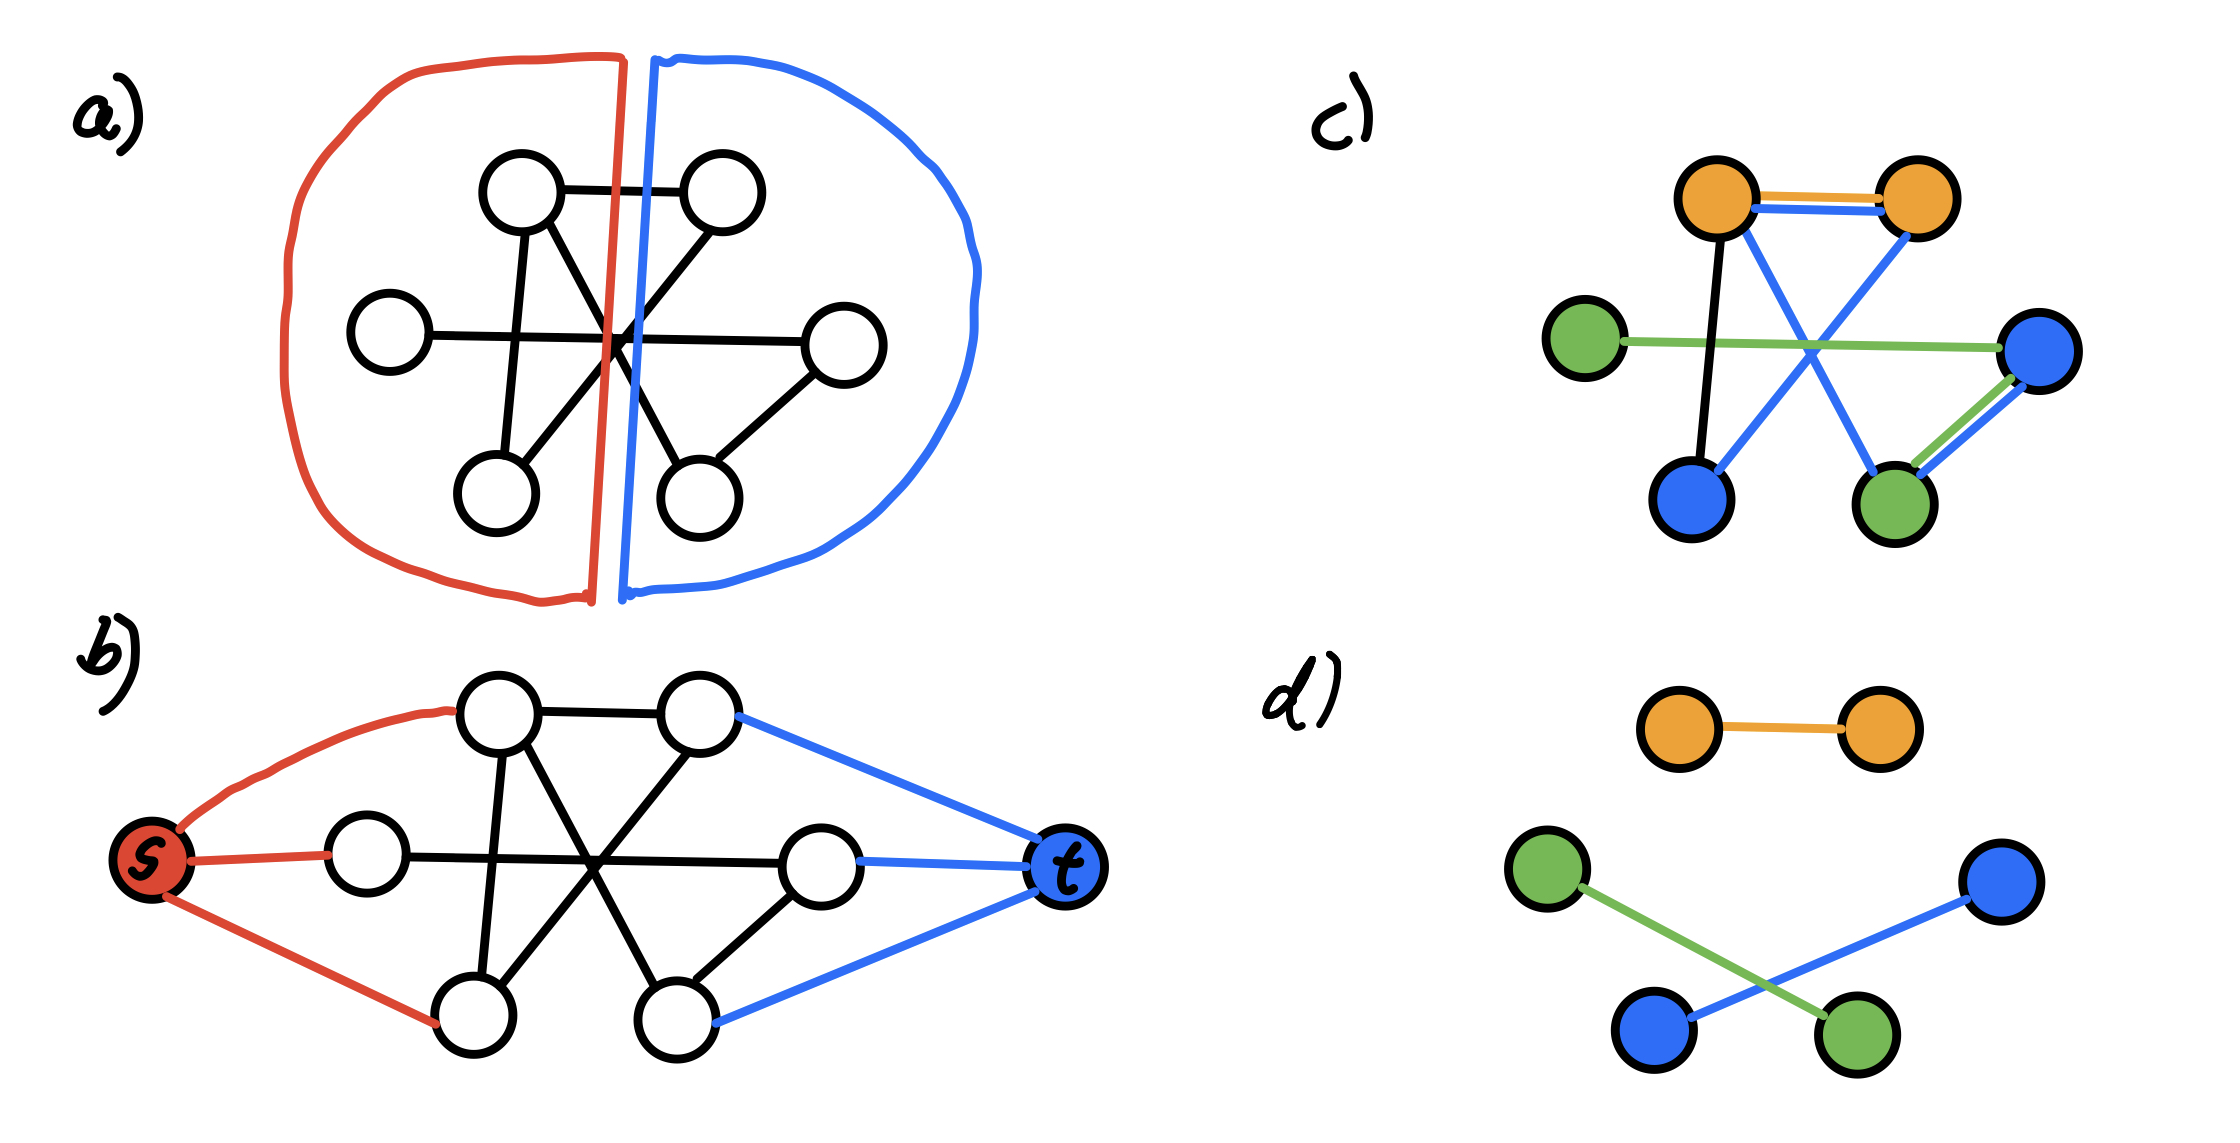
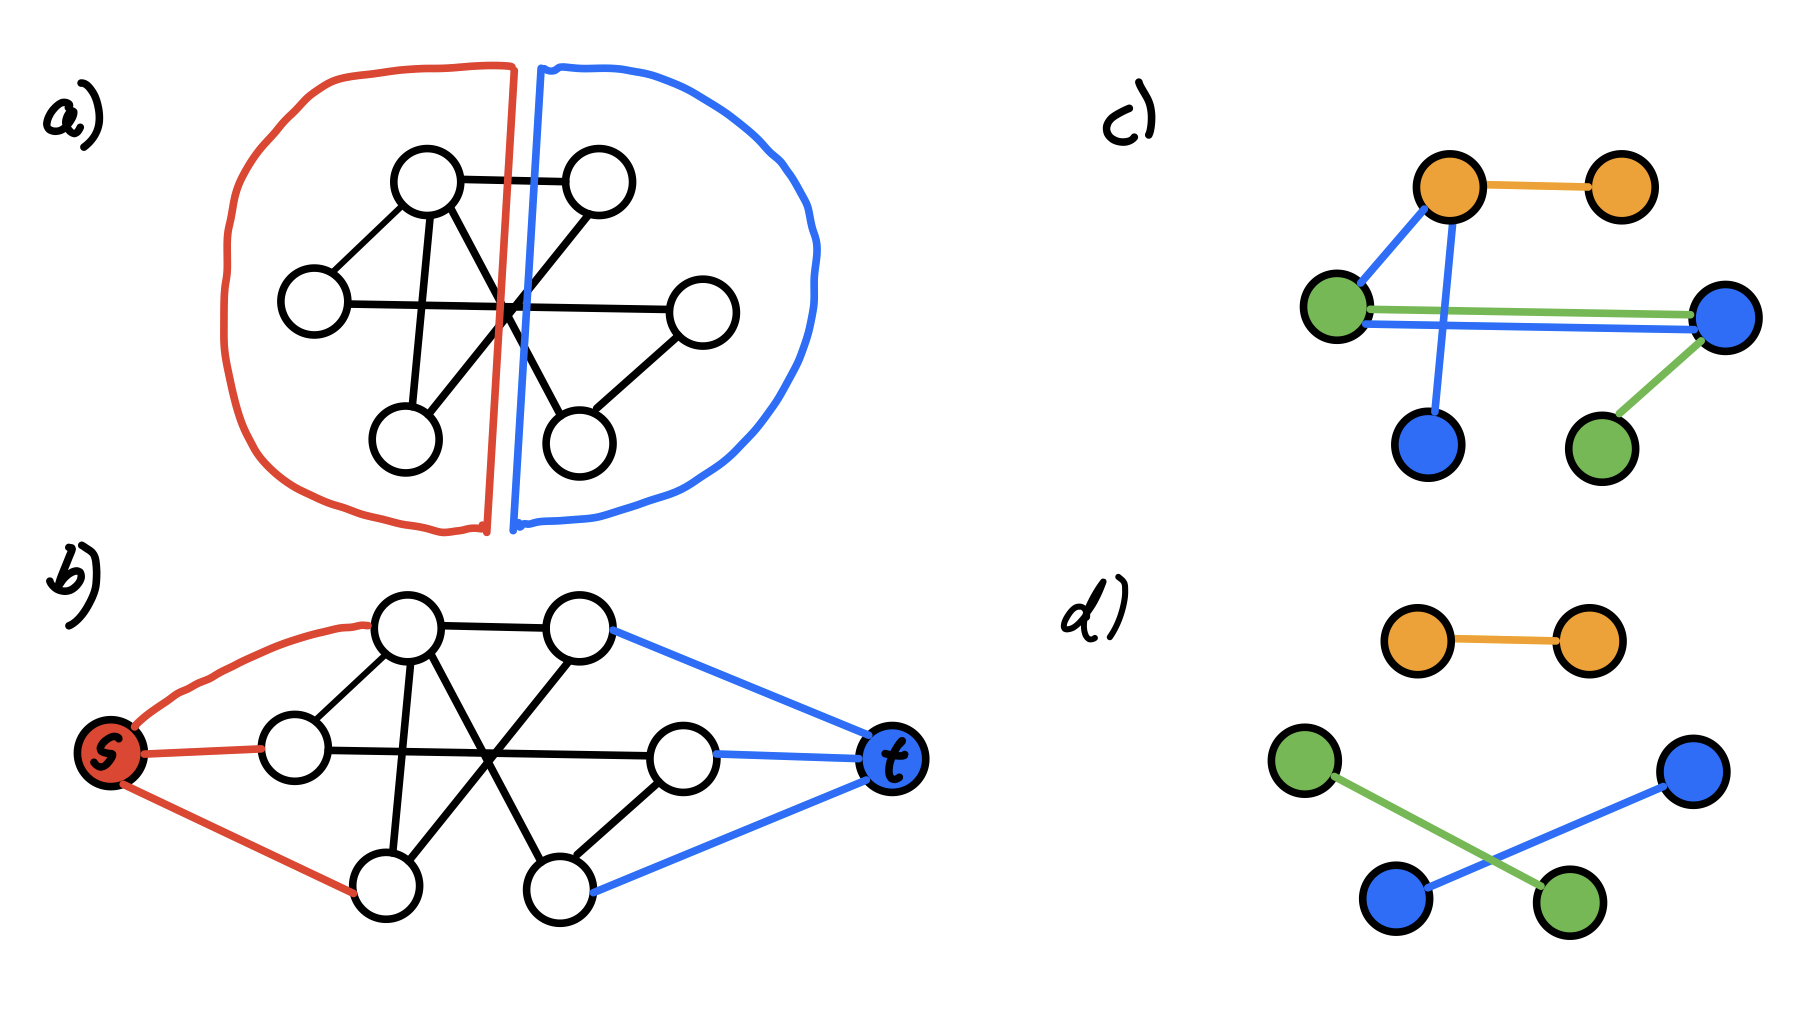
Small Bug Fixes
There was a mistake in a figure in cut matching, and the plink operation was not clear in dynamic trees. Both are improved.

diff --git a/agao21_script/lecture_DynamicTrees.tex b/agao21_script/lecture_DynamicTrees.tex
@@ -85,7 +85,7 @@ To implement the operation $\textsc{FindMin}(v)$ efficiently, we can use binary 
     \caption{For $\textsc{Cut}(u,v)$, we insert a vertex $d_0$ as a leaf of either $u$ or $v$ to formally split $(u,v)$ into $(u,d_0)$ and $(d_0,v)$ (this is shown on the left). While this preserves that Search-Property, it will violate the Heap-Order. Thus, we need to use tree rotations (shown on the left) to push $d_0$ to the top of the tree $\mathcal{P}$ (the arrow between the tree rotations should point in both ways).}
 \end{figure}
 
-Implementing $\textsc{Link}(u,v)$ can be done by reversing this process, i.e. inserting a vertex $d_{\infty}$ with $ranNum(d_{\infty}) = n^{100}$ where we set $left_{\mathcal{P}}(d_{\infty}) =  \textsc{FindRoot}(u)$ and $right_{\mathcal{P}}(d_{\infty}) =  \textsc{FindRoot}(v)$ (and adapt the parent pointers). Using rotations to enforce Heap-Order, we have $d_{\infty}$ as a leaf and can just remove it from the tree (which can be seen as un-splitting two edges into $(u,v)$).
+Implementing $\textsc{Link}(u,v)$ can be done by reversing this process, i.e. inserting a vertex $d_{\infty}$ with $ranNum(d_{\infty}) = n^{100}$ where we let $left_{\mathcal{P}}(d_{\infty})$ point to the root of the tree representing the path $u$ is currently contained in,  and  $right_{\mathcal{P}}(d_{\infty}) $ to the root of the tree over the path that $v$ is contained in (and adapt the parent pointers). Using rotations to enforce Heap-Order, we have $d_{\infty}$ as a leaf and can just remove it from the tree (which can be seen as un-splitting two edges into $(u,v)$).  Note that here,  we also have to carefully enforce the Search Property ourselves to ensure that $d_{\infty}$ is always in between $u$ and $v$ on the path.
 
 \paragraph{Notes.} The operations $\textsc{Link}/ \textsc{Cut}$ can be implemented for almost all Balanced Binary Search Trees (especially the ones you have seen in your first courses on data structures). Thus, it is not hard to get a $O(\log n)$ worst-case time bound for all operations discussed above.
 
@@ -129,7 +129,7 @@ We maintain the paths $P_1, P_2, \dots, P_k$ using the data structure described 
 \end{algorithm}
 \begin{algorithm}[H]
   \SetAlgoLined
-  $parent_G(u) \gets v$; $\textsc{Expose}(v)$\;
+  $parent_G(u) \gets v$\;
   \lIf{$v$ has an incoming solid edge $(z,v)$}{
     $\textsc{PCut}(z,v)$
   }
